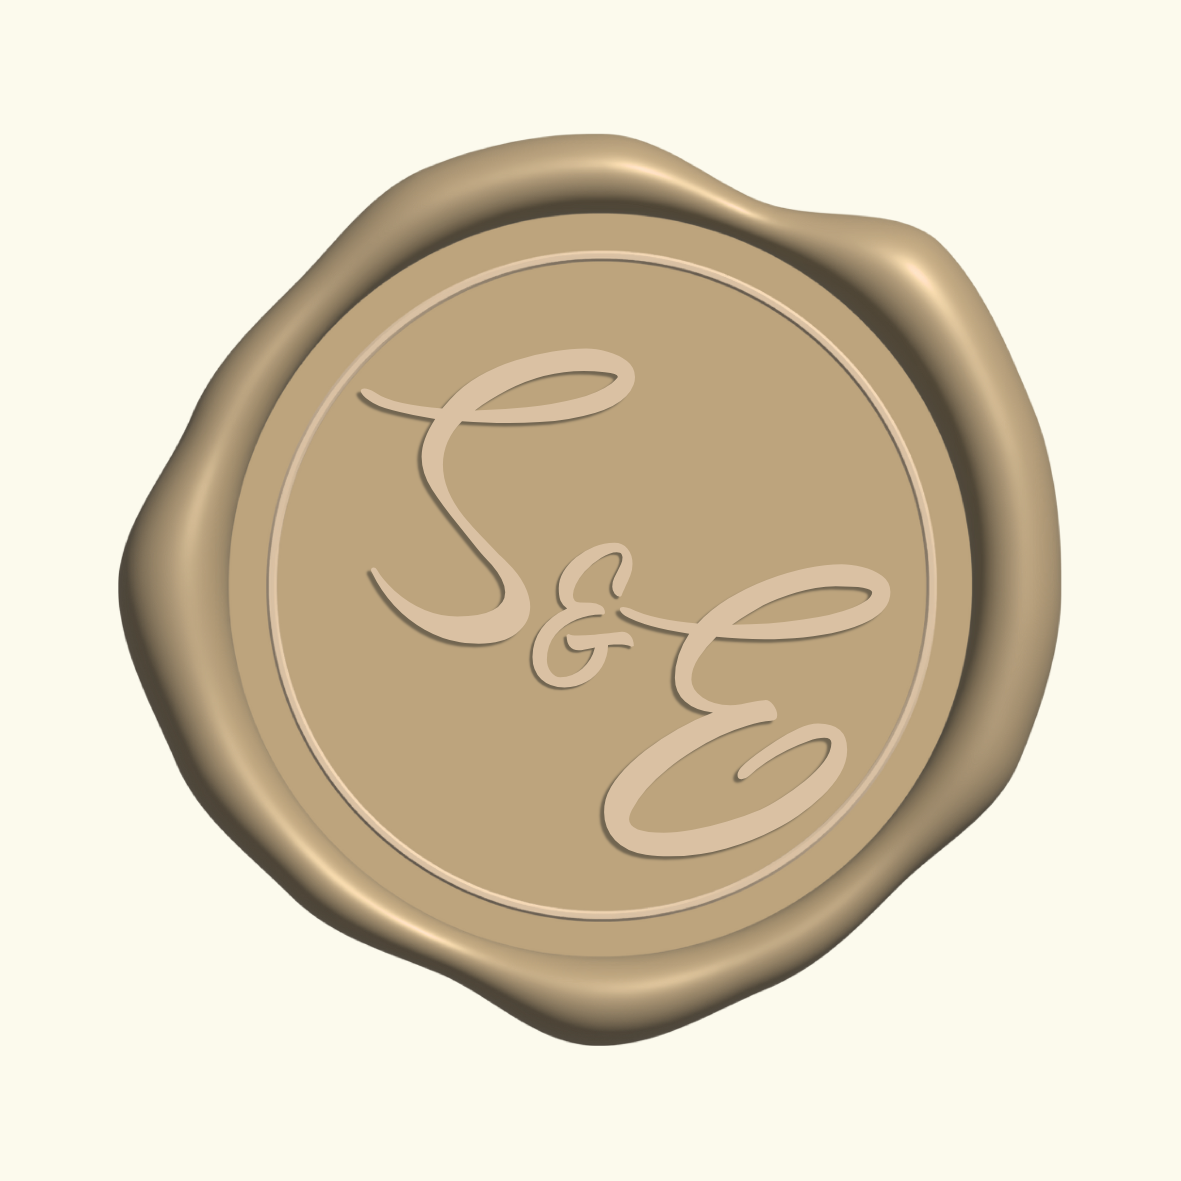
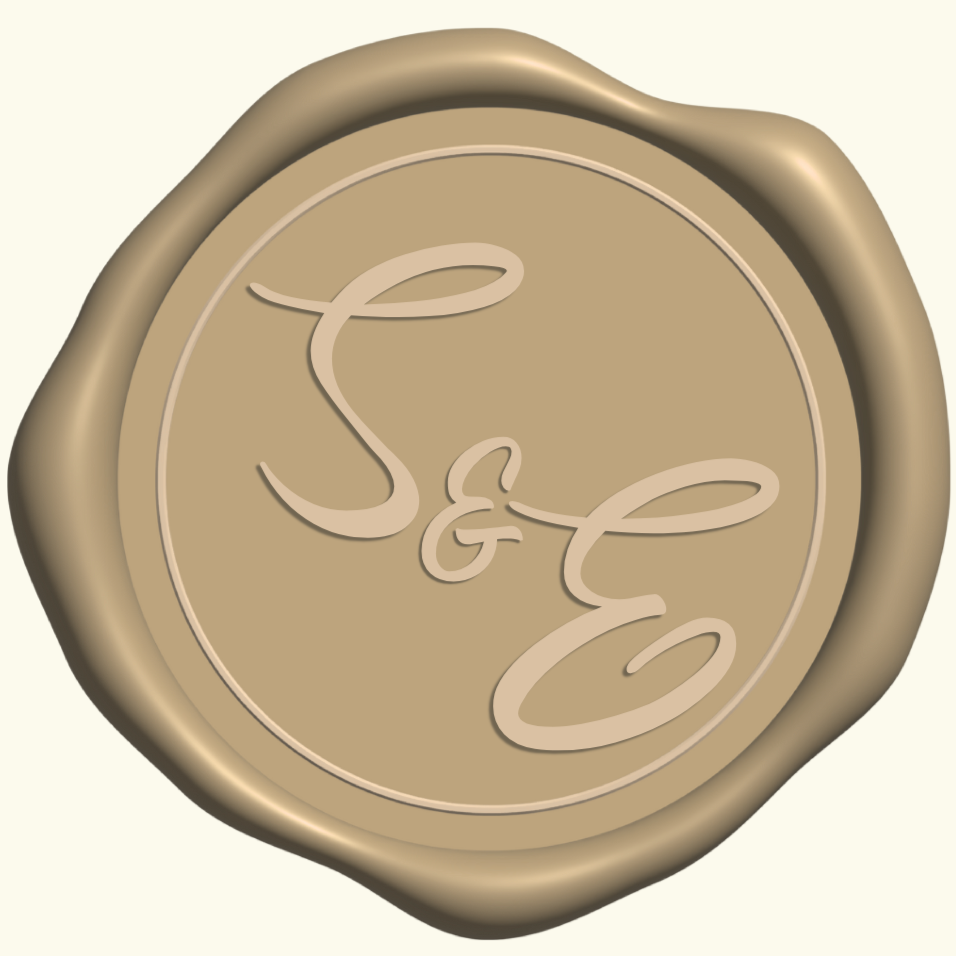
More pics, more formatting

diff --git a/style.css b/style.css
@@ -2,19 +2,19 @@
 
 .birthstone-bounce-regular {
   font-family: "Birthstone Bounce", cursive;
-  font-weight: 400;
+  font-weight: 400vw;
   font-style: normal;
 }
 
 .birthstone-bounce-medium {
   font-family: "Birthstone Bounce", cursive;
-  font-weight: 500;
+  font-weight: 500vw;
   font-style: normal;
 }
 
 .libertinus-mono-regular {
   font-family: "Libertinus Mono", monospace;
-  font-weight: 400;
+  font-weight: 400vw;
   font-style: normal;
 }
 
@@ -73,6 +73,8 @@
   .header {
     font-size: 4em;
     text-align: center;
+    bottom: 50px;
+
   }
   
     /* Main content */
@@ -83,7 +85,7 @@
   /* Images */
 .hero-image {
     /* Use "linear-gradient" to add a darken background effect to the image (photographer.jpg). This will make the text easier to read */
-    background-image: linear-gradient(#fcfaed33, #fcfaed33), url("images/walking_shot_sqr.jpeg");
+    background-image: linear-gradient(#fcfaed00, #fcfaed00), url("images/walking_shot_sqr.jpeg");
   
     /* Set a specific height */
     height: 90vh;
@@ -93,7 +95,18 @@
     background-repeat: no-repeat;
     background-size: cover;
     position: relative;
+    top:50px;
+    margin-bottom: 50px;
   }
+
+  .hero-siegel {
+  position: absolute;
+  top: 0;
+  left: 50%;
+  transform: translate(-50%, -50%); /* halb über dem Rand */
+  width: 100px;
+  z-index: 10; /* liegt über dem Bild */
+}
 
   .rsvp-image {
     /* Use "linear-gradient" to add a darken background effect to the image (photographer.jpg). This will make the text easier to read */
@@ -148,19 +161,7 @@
     position: relative;
   }
 
-  .wax-seal-image{
-    background-image: url("images/siegel.png");
-
-  
-    /* Position and center the image to scale nicely on all screens */
-    background-position: center;
-    background-repeat: no-repeat;
-    background-size: auto;
-    position: relative;
-  }
-
-
-  /* Menu */
+   /* Menu */
   .menubtn {
     display: inline-block;
     cursor: pointer;
@@ -209,7 +210,7 @@
     position: fixed;
     display: inline-block;
     left: 1%;
-    top:  1%;
+    top:  .5%;
     z-index: 99;
   }
   
@@ -293,53 +294,71 @@
     font-family: "Bodoni Moda SC", serif;
 }
 
-.column {
-    display: table-cell;
+.footer{
+  display: flex;
+}
+.row {
+  display: flex;
+  padding-left: 15%;
+  padding-right: 15%;
+  padding-top: 5%;
+  padding-bottom: 2%;
+}
+
+.lower_column {
+    display: flex;
     float: left;
     width: 50%;
-    top: 50%;
-    padding: 10px;
     text-align: center;
+    margin-left: 1%;
+    margin-right: 1%;
   }
 
-  .quatercolumn {
-    float: left;
-    padding: 2%;
-    width: 25%;
-    margin-top: 20px;
-    text-align: center;
-  }
+.head_column {
+  display: flex;
+  float: left;
+  width: 50%;
+  text-align: center;
+  margin-left: 1%;
+  margin-right: 1%;
+}
+.quatercolumn {
+  float: left;
+  padding: 2%;
+  width: 25%;
+  margin-top: 20px;
+  text-align: center;
+}
   /* Create two unequal columns that floats next to each other */
 /* Left column */
-.leftcolumn {
+.small_column {
+    display: flex;
     float: left;
     width: 25%;
-    padding-left: 5%;
-    margin-top: 20px;
+    text-align: center;
+    margin-left: 1%;
+    margin-right: 1%;
   }
   
   /* Right column */
-  .rightcolumn {
+  .big_column {
+    display: flex;
     float: left;
     width: 75%;
-    padding-left: 20px;
-    margin-top: 20px;
+    text-align: center;
+    margin-left: 1%;
+    margin-right: 1%;
   }
  
   /* Add a card effect for articles */
 .card {
     background-color: #bc924999;
-    padding: 20px;
-    margin-top: 20px;
-
-
+    width: 100%;
+    min-height: 2em;
   }
 .card_transparent {
   background-color: #f1ccc400;
-  padding-left: 15%;
-  padding-right: 15%;
-  margin-top: 20px;
-
+  width: 100%;
 
 }
   
@@ -352,12 +371,27 @@
   
   /* Responsive layout - makes the two columns stack on top of each other instead of next to each other */
   @media screen and (max-width: 850px) {
-    .column, .leftcolumn, .rightcolumn, .quatercolumn, .button {
-      display: block;
-      width: 100%;
-      padding: 20px;
-      text-align: center;
-    }
+   .row{
+    flex-direction: column;
+    align-items: center;
+   }
+
+   .head_column{
+    order: 1;
+    margin-bottom: 5%;
+   }
+   .lower_column{
+    order: 2;
+   }
+   .small_column{
+    order: 1;
+    margin-bottom: 5%;
+    width: 50%;
+   }
+   .big_column{
+    order: 2;
+    width: 50%;
+   }
   }
 
 /* Style the Image Used to Trigger the Modal */

diff --git a/index.html b/index.html
@@ -12,28 +12,26 @@
 
 
 <header>
-    <div class="card_transparent">
-        <div class="wax-seal-image"></div>
-    </div>
-    <div class="hero-image">
-        <div class="toggle-menu">
-            <button id="menubtn" onclick="toggleMenu(this)" class="menubtn">
-                <div class="bar1"></div>
-                <div class="bar2"></div>
-                <div class="bar3"></div>
-            </button>
-            <div id="menu" class="menu-content">
-                <a href="index.html">Home</a>
-                <a href="rsvp.html">RSVP</a>
-                <a href="info.html">Infos & Ablauf</a>
-                <a href="anfahrt.html">Location</a>
-                <a href="kontakt.html">Kontakt</a>
+       <div class="hero-image">
+                  <img src="images/siegel_nobg.png" alt="S&E Siegel" class="hero-siegel">
+            <div class="toggle-menu">
+                <button id="menubtn" onclick="toggleMenu(this)" class="menubtn">
+                    <div class="bar1"></div>
+                    <div class="bar2"></div>
+                    <div class="bar3"></div>
+                </button>
+                <div id="menu" class="menu-content">
+                    <a href="index.html">Home</a>
+                    <a href="rsvp.html">RSVP</a>
+                    <a href="info.html">Infos & Ablauf</a>
+                    <a href="anfahrt.html">Anfahrt</a>
+                    <a href="kontakt.html">Kontakt</a>
+                </div>
+            </div>
+            <div class="hero-text">
+                <h1>Selina <br>& <br>Elias</h1><br>
             </div>
         </div>
-        <div class="hero-text">
-            <h1>Selina <br>& <br>Elias</h1><br>
-        </div>
-    </div>
   </header>
 
   <main>
@@ -48,62 +46,16 @@
                 Wir freuen uns auf Euch!</h3><br><br>
             <h2>Selina und Elias</h2>
         </div>
-        <!-- <div class="card_transparent">
-            <script src="https://cdn.logwork.com/widget/countdown.js"></script>
-            <a href="https://logwork.com/countdown-timer" 
-                class="countdown-timer" 
-                data-timezone="Europe/Berlin" data-language="de" data-textcolor="#FCFAED" data-date="2026-08-01 13:00" 
-                data-background="#6C0F16" data-digitscolor="#FCFAED" data-unitscolor="#333333"
-                style="pointer-events: none; cursor: default;">Noch...</a>
-        </div> -->
+    </div>
 
-        <!-- <div class="column">
-            <button class="button" style="float: right;">
-                <dif class="button-content">
-                    <a href="anfahrt.html">
-                        <h2>Ort</h2><br>
-                        <p style="text-align: center;">Schlossgut Moosschwaige<br>Infos zur Anfahrt</p>
-                    </a>   
-                </dif>
-            </button>
-        </div>
-        <div class="column">
-            <button class="button" style="float: left;">
-                <dif class="button-content">
-                    <a href="info.html">
-                        <h2>Infos</h2><br>
-                        <p style="text-align: center;">Ein Überblick zu unserem Tag</p>
-                    </a>
-                </dif>
-            </button>
+    <div class="footer">
+        <div class="card">
+
         </div>
     </div>
-    <div class="row">
-        <div class="column">
-            <button class="button" style="float: right;">
-                <dif class="button-content">
-                    <a href="rsvp.html">
-                        <h2>RSVP</h2><br>
-                        <p style="text-align: center;">Lasst uns wissen, ob ihr mit uns feiert</p>
-                    </a>
-                </dif>
-            </button>
-        </div>
-        <div class="column">
-            <button class="button" style="float: left;">
-                <dif class="button-content">
-                    <a href="kontakt.html">
-                        <h2>Kontakt</h2><br>
-                        <p style="text-align: center;">Falls Fragen aufkommen</p>
-                    </a>
-                </dif>
-            </button>
-        </div>
-    </div> -->
-    <div class="card">
-        </div>
   </main>
 
   <script src="scripts.js"></script>
 </body>
 </html>
+
